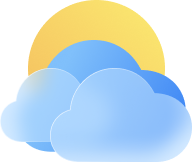
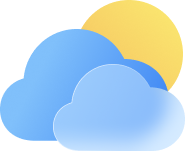
finalized assets

diff --git a/src/Components/WeatherApp/WeatherApp.jsx b/src/Components/WeatherApp/WeatherApp.jsx
@@ -1,17 +1,18 @@
 // asset and styling imports
 import React, { useState, useEffect } from 'react';
 import clear_icon from '../Assets/forecast_icons/clear.png';
-import cloudy_icon from '../Assets/forecast_icons/cloudy.png';
 import partly_cloudy_icon from '../Assets/forecast_icons/partly_cloudy.png';
 import mostly_cloudy_icon from '../Assets/forecast_icons/mostly_cloudy.png';
-import rain_icon from '../Assets/forecast_icons/rain.png';
+import cloudy_icon from '../Assets/forecast_icons/cloudy.png';
 import shower_rain_icon from '../Assets/forecast_icons/shower_rain.png';
+import rain_icon from '../Assets/forecast_icons/rain.png';
 import thunderstorm_icon from '../Assets/forecast_icons/thunderstorm.png';
 import snow_icon from '../Assets/forecast_icons/snow.png';
 
-import main_sunny from '../Assets/main_icons/main_clear.png';
-import main_cloudy from '../Assets/main_icons/main_cloudy.png';
+import main_clear from '../Assets/main_icons/main_clear.png';
 import main_partly_cloudy from '../Assets/main_icons/main_partly_cloudy.png';
+import main_mostly_cloudy from '../Assets/main_icons/main_mostly_cloudy.png';
+import main_cloudy from '../Assets/main_icons/main_cloudy.png';
 import main_rain from '../Assets/main_icons/main_rain.png';
 import main_shower_rain from '../Assets/main_icons/main_shower_rain.png';
 import main_thunderstorm from '../Assets/main_icons/main_thunderstorm.png';
@@ -71,7 +72,7 @@ useEffect(() => {
         case "01d":
         case "01n":
           setCurrentWeather("Sunny");
-          setWicon(main_sunny);
+          setWicon(main_clear);
           break;
         case "02d":
         case "02n":
@@ -79,7 +80,10 @@ useEffect(() => {
           setWicon(main_partly_cloudy);
           break;
         case "03d":
-        case "03n":
+        case "03n":          
+          setCurrentWeather("Mostly Cloudy");
+          setWicon(main_mostly_cloudy);
+          break;
         case "04d":
         case "04n":
           setCurrentWeather("Cloudy");
@@ -110,8 +114,8 @@ useEffect(() => {
           setPrecipitation(data.snow['1h'] + 'mm');
           break;
         default:
-          setCurrentWeather("Cloudy");
-          setWicon(main_cloudy);
+          setCurrentWeather("Partly Cloudy");
+          setWicon(main_partly_cloudy);
           break;
       }
     setTemperature(Math.round(data.main.temp));
@@ -194,6 +198,7 @@ useEffect(() => {
           break;
         case "03d":
         case "03n":
+          tempForecastWeathers.push(mostly_cloudy_icon);
         case "04d":
         case "04n":
           tempForecastWeathers.push(cloudy_icon);
